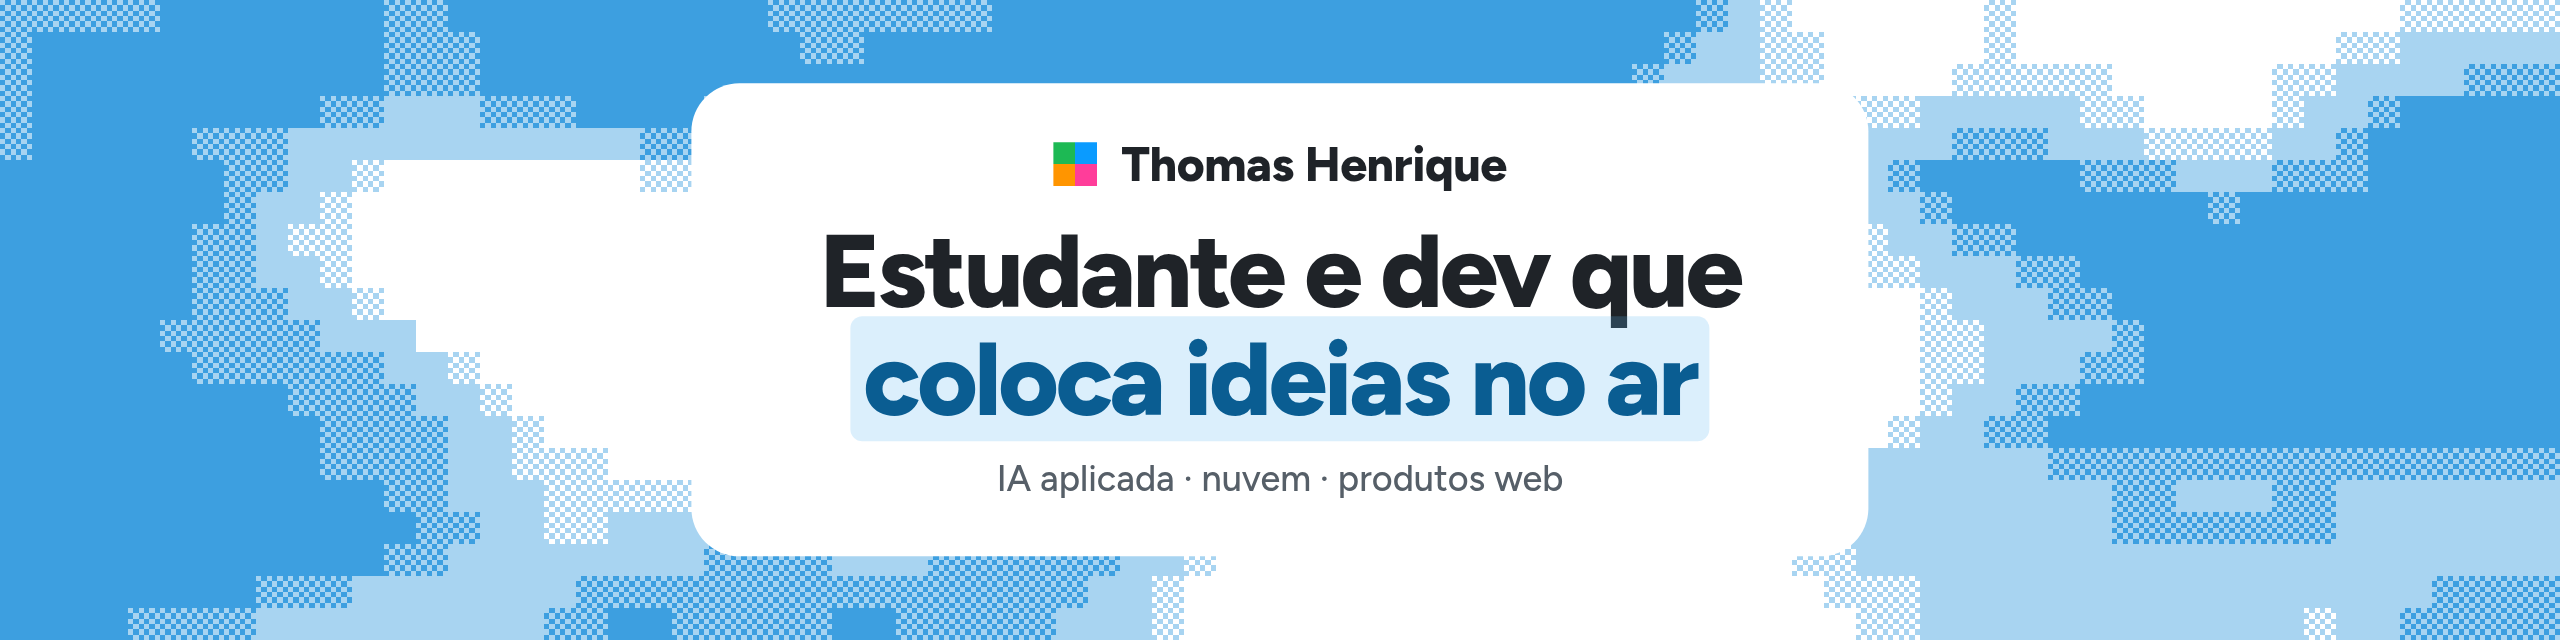
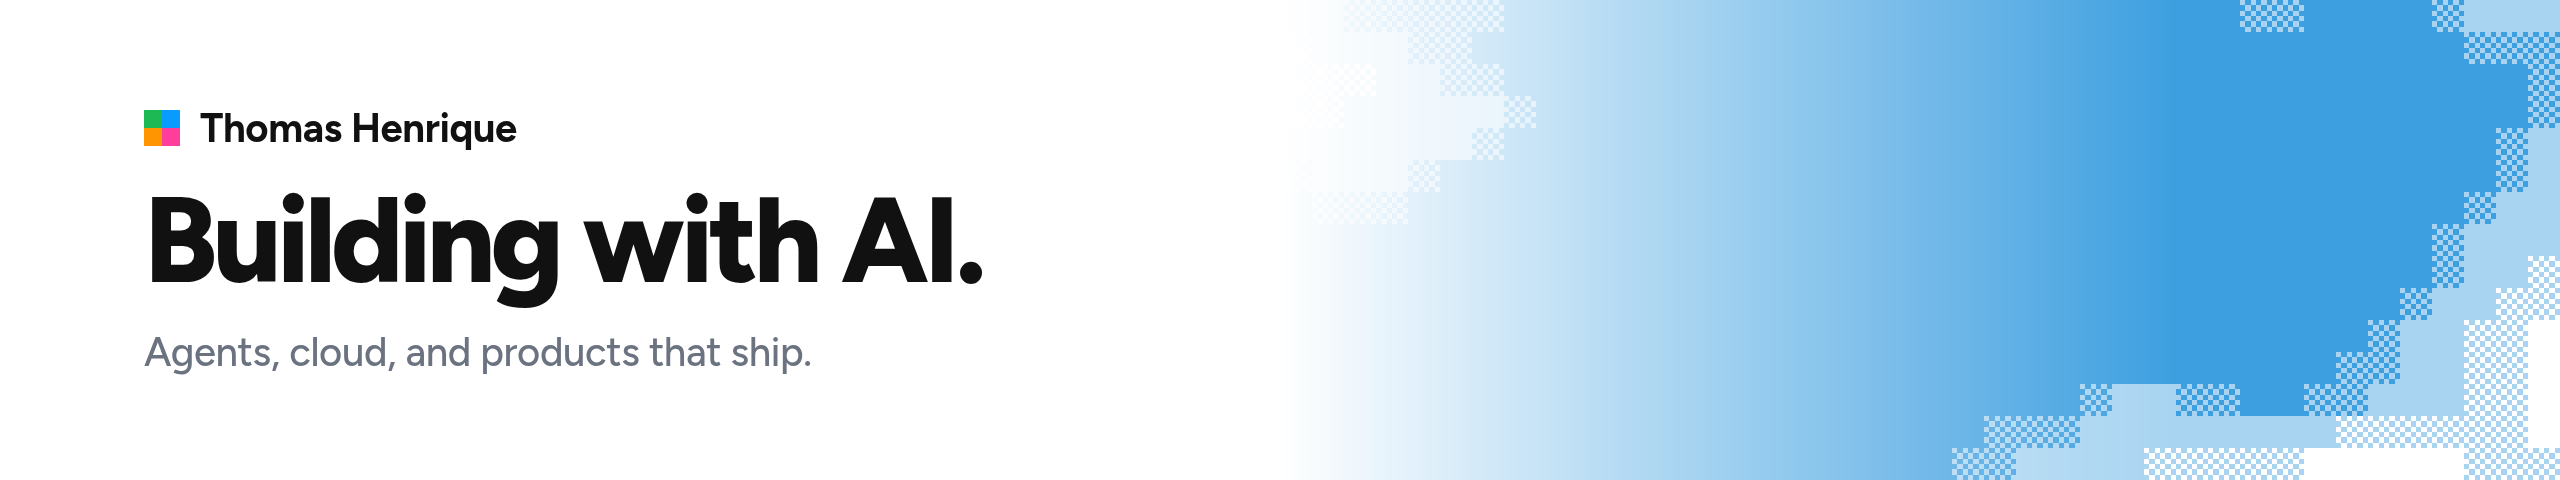
docs: README minimalista em inglês

diff --git a/README.md b/README.md
@@ -1,51 +1,15 @@
-<div align="center">
-
-<img src="assets/header.png" alt="Thomas Henrique: estudante e dev que coloca ideias no ar. IA aplicada, nuvem, produtos web." width="100%" />
-
-</div>
-
-## Oi, eu sou o Thomas
-
-Curso **Sistemas de Informação na Unicamp** e trabalho com o que mais me anima hoje: **IA aplicada** (agentes e MCP), **nuvem** (AWS) e **produtos web**, do primeiro rascunho até estar no ar.
-
-Gosto de projetos em que a mesma pessoa pensa o problema, desenha a solução e entrega. Os pontos só se ligam olhando para trás, e a minha trilha foi de um insulto num jogo online até um modelo de linguagem que identifica racismo nas redes.
-
-## Agora
-
-- **Atria Jr.** · Assessor de Projetos de TI, desde mai/2026: levantamento de requisitos com clientes e gestão de projetos.
-- **Agibank** · Programa de Formação de Devs Nativos em IA, a partir de 17/nov/2026.
-- **Unicamp** · Bacharelado em Sistemas de Informação, 2026–2029.
-
-## Antes
-
-- **AWS Builder Campus** · Líder Estudantil (abr–set/2026): conversei com mais de 100 pessoas sobre nuvem e capacitei 14, em parceria com a Atria Jr.
-- **Compass UOL** · Estagiário em Desenvolvimento Fullstack AWS (nov/2024–abr/2025), com certificação **AWS Cloud Practitioner**.
-- **IFSP Campinas** · Técnico de Informática, onde nasceram o **Sankofa.AI** (TCC) e o **Rota das Águas**.
-
-## Destaques
-
-| | |
-| --- | --- |
-| **[Decide Aí](https://github.com/thomhenriq/decide-ai)** | Agente de WhatsApp que faz pedidos no iFood por texto, áudio e imagem e transforma pedidos sem resposta em insight para o restaurante. Hackathon iFood, SEMCOMP USP São Carlos. Meu foco foi a arquitetura do agente. |
-| **[Meu portfólio](https://othomportifolio.vercel.app/en)** | Projetos, experiências e blog, em português e inglês. |
-
-## Ferramentas
-
-`TypeScript` `JavaScript` `Python` `Node.js` `NestJS` `React` `React Native` `PostgreSQL` `AWS` `Docker` `MCP` `Git`
-
-## Contato
-
-[LinkedIn](https://www.linkedin.com/in/thom-henrique/) · [X](https://x.com/othomhenriq) · [Portfólio](https://othomportifolio.vercel.app/en)
-
-<details>
-<summary>English</summary>
+<img src="assets/header.png" alt="Thomas Henrique. Building with AI. Agents, cloud, and products that ship." width="100%" />
 
 &nbsp;
 
-I'm a student of **Information Systems at Unicamp** (Brazil), focused on **applied AI** (agents and MCP), **cloud** (AWS) and **web products**.
+Information Systems at **Unicamp**. IT Projects Advisor at **Atria Jr.**
+Joining **Agibank's AI-Native Developers Program** on Nov 17.
 
-- **Now:** IT Projects Advisor at Atria Jr. (since May 2026) and, from Nov 17, 2026, the Agibank AI-Native Developers Training Program.
-- **Before:** AWS Builder Campus student leader (talked with 100+ people about the cloud and trained 14), Fullstack AWS intern at Compass UOL, **AWS Certified Cloud Practitioner**.
-- **Highlight:** [Decide Aí](https://github.com/thomhenriq/decide-ai), a WhatsApp agent that orders on iFood by text, voice and image (iFood hackathon).
+- Shipped **[Decide Aí](https://github.com/thomhenriq/decide-ai)**, a WhatsApp agent that orders on iFood by text, voice and image.
+- Built **Sankofa.AI**, a fine-tuned BERTimbau that flags racist speech online.
+- Led **AWS Builder Campus**: 100+ people reached, 14 trained.
+- **AWS Certified Cloud Practitioner.**
 
-</details>
+&nbsp;
+
+[Portfolio](https://othomportifolio.vercel.app/en) · [LinkedIn](https://www.linkedin.com/in/thom-henrique/) · [X](https://x.com/othomhenriq)
